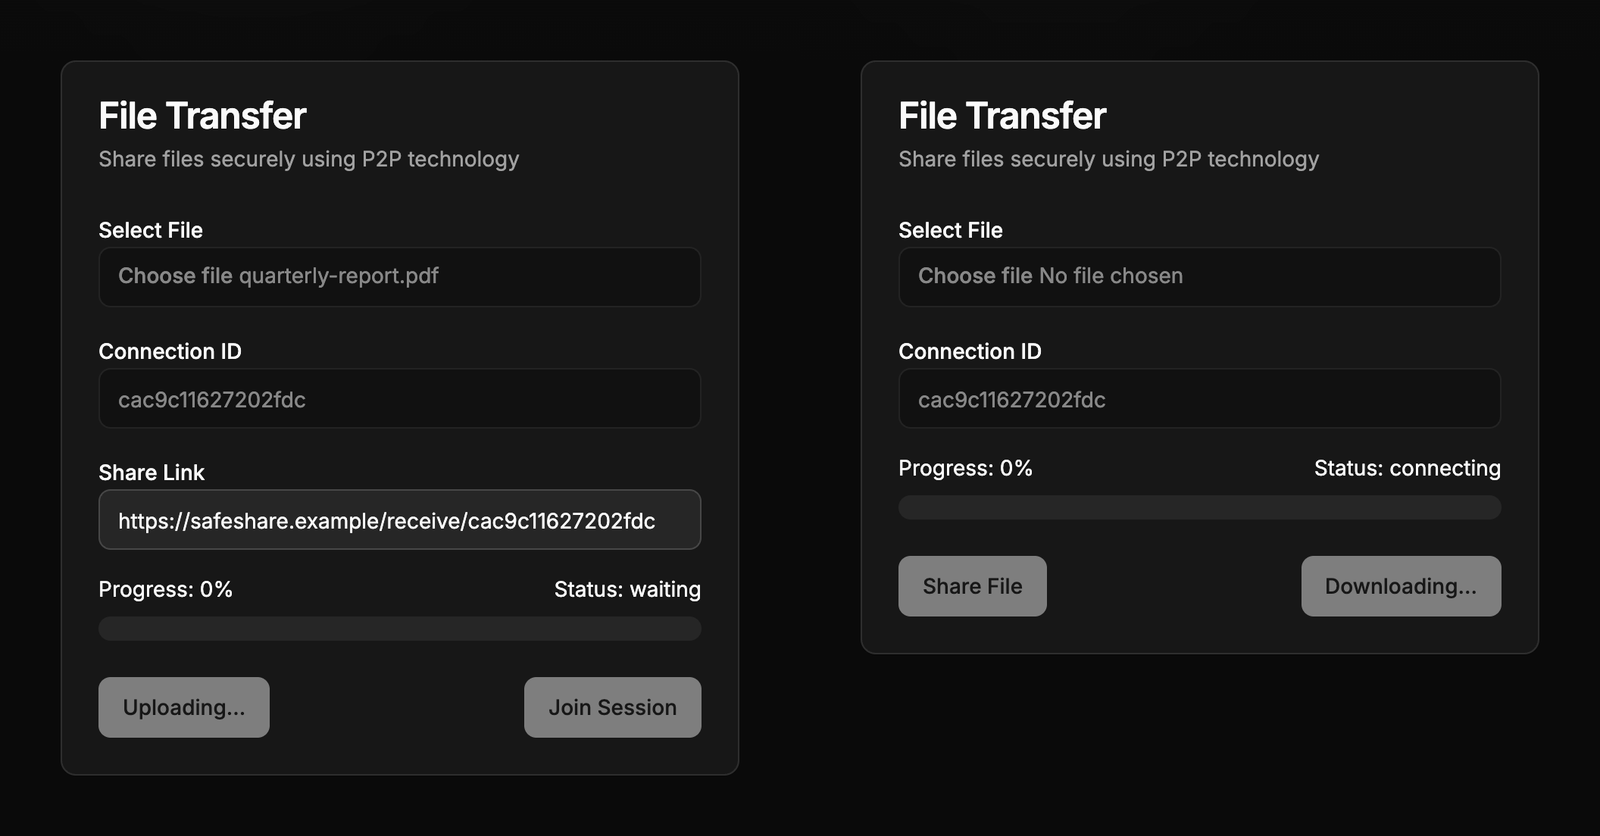
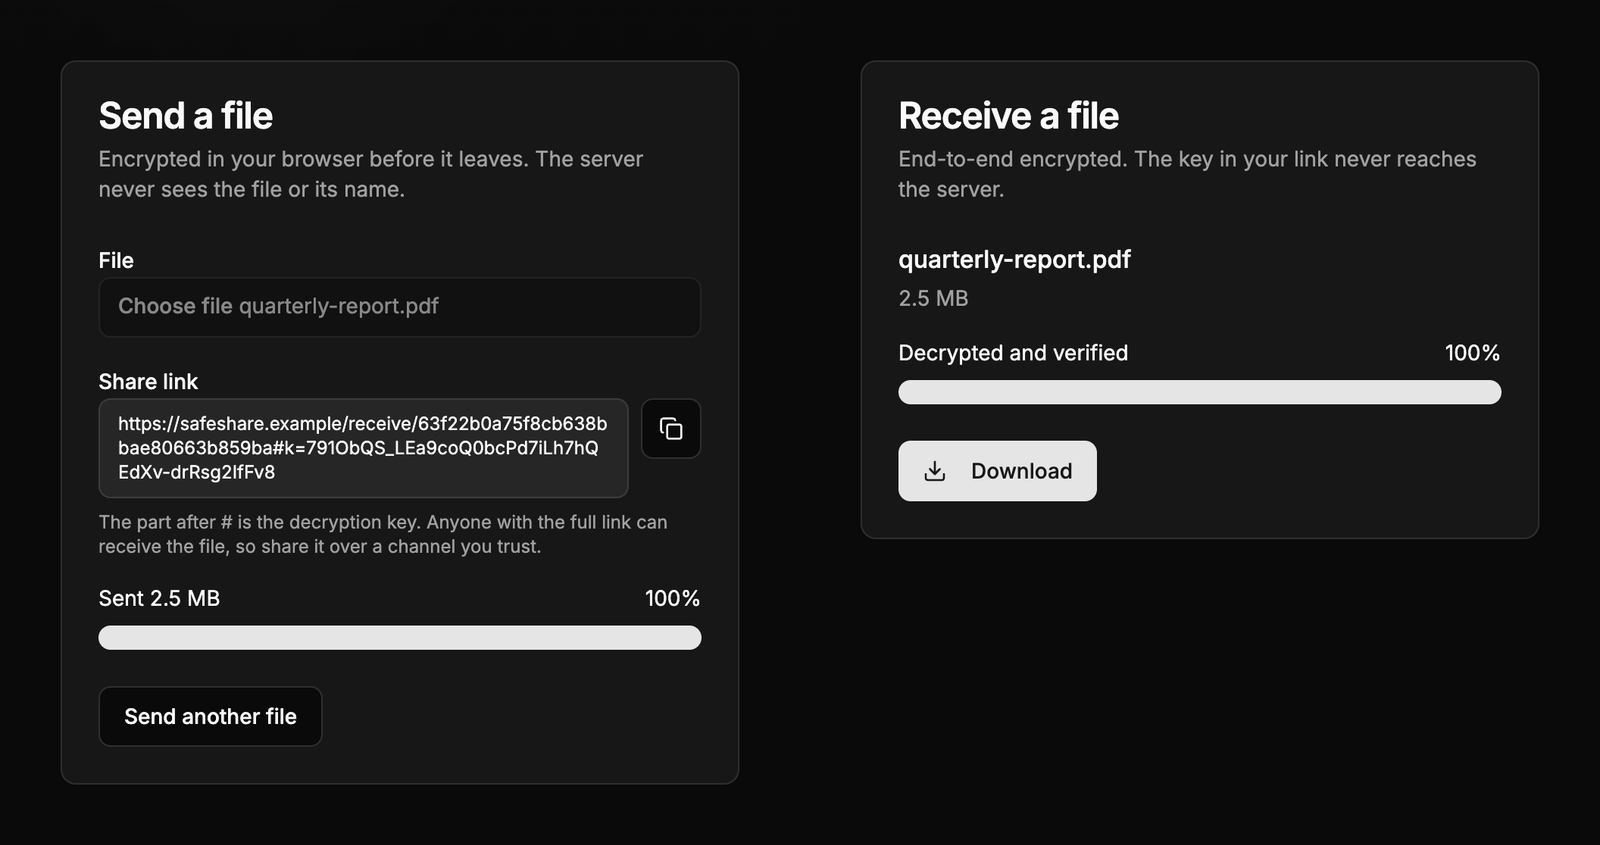
docs: describe end-to-end encryption in the README and show a completed transfer
State what is encrypted (contents and metadata, AES-GCM-256, key in the
URL fragment), how messages are bound and checked, what the signaling
server still sees, the trust assumptions, and that the desktop app is not
covered. Replace the screenshots with a completed transfer and trim the
status section to the gaps that remain.

diff --git a/README.md b/README.md
@@ -1,75 +1,78 @@
 # SafeShare
 
-Peer-to-peer file transfer over WebRTC. The sender's browser streams the file straight to the receiver's browser over a data channel, and a small signaling API only brokers the connection, so file contents never go through it. SafeShare is a prototype: see [Status](#status) for what works today.
+End-to-end encrypted file transfer between two browsers. The sender's browser encrypts the file with a key that exists only in the share link's URL fragment and streams it straight to the receiver over WebRTC. A small signaling API introduces the two browsers and never sees the key, the file or its name.
 
 <p align="center">
-  <img src="docs/images/web-share.png" width="720" alt="SafeShare web client with quarterly-report.pdf selected, a session created, and the connection ID and share link shown">
+  <img src="docs/images/web-share.png" width="720" alt="SafeShare web client after sending quarterly-report.pdf, showing the share link with the key after #k= and the transfer at 100 percent">
 </p>
 
 ## How it works
 
-There are two paths. The **signaling path** is JSON over HTTP between each client and the Fastify API, which keeps sessions in Redis. The **data path** is a direct WebRTC data channel between the two browsers.
+There are two paths. The **signaling path** is JSON over HTTP between each browser and the Fastify API, which keeps sessions in Redis. The **data path** is a direct WebRTC data channel between the two browsers, and everything on it is encrypted with the key from the link.
 
 ```mermaid
 sequenceDiagram
     participant S as Sender browser
     participant API as Signaling API (Fastify + Redis)
     participant R as Receiver browser
-    S->>API: POST /v1/share/initiate (name, size, type)
-    API-->>S: session ID (the connection ID), share link
-    S->>API: POST /v1/share/update-torrent (SDP offer)
-    Note over S,R: The sender passes the connection ID to the receiver
+    S->>S: Generate an AES-GCM-256 key
+    S->>API: POST /v1/share/initiate (no file details)
+    API-->>S: Random session ID
+    S->>API: POST /v1/share/signal (SDP offer)
+    Note over S,R: Sender shares /receive/<session ID>#k=<key>
+    R->>R: Read the key, remove it from the address bar
     R->>API: GET /v1/share/session/:id
-    API-->>R: SDP offer, file metadata
-    R->>API: POST /v1/share/update-torrent (SDP answer)
-    loop every 2 seconds
-        S->>API: GET /v1/share/session/:id
-    end
+    API-->>R: SDP offer
+    R->>API: POST /v1/share/signal (SDP answer)
+    S->>API: GET /v1/share/session/:id (polls)
     API-->>S: SDP answer
-    S->>R: WebRTC data channel over DTLS: metadata, 16 KB chunks, "complete"
+    S->>R: Data channel: encrypted metadata, chunks, end message
+    R->>R: Verify, then offer the download
 ```
 
-1. The sender creates a session with the file's name, size and MIME type. The API stores it in Redis for 24 hours and returns a 16-character session ID, shown in the UI as the connection ID.
-2. The sender opens an `RTCPeerConnection` with an ordered data channel and posts its SDP offer. The API keeps it in the session's `magnetUri` field (a leftover from the WebTorrent design), where the receiver's answer later replaces it.
-3. The receiver enters the connection ID, fetches the offer and posts an answer. The sender polls for the answer every 2 seconds.
-4. When the channel opens, the sender sends a JSON metadata message, the file as 16 KB `ArrayBuffer` chunks, then a `complete` message. The receiver rebuilds the file as a `Blob` and saves it.
-
-NAT traversal uses Google's public STUN servers. No TURN relay is configured, so peers that cannot reach each other directly (for example, two behind symmetric NATs) will not connect.
-
-**What the API sees:** the file name, size and MIME type; the SDP offer and answer, which carry each browser's DTLS certificate fingerprint and any ICE candidates (peer IP addresses); transfer status; and the client IP, a hash of which goes into the session ID. Sessions expire from Redis 24 hours after their last update.
-
-**What the API does not receive:** file contents, since neither client uploads file data to it, and the DTLS keys, which each browser generates and keeps. A malicious signaling server could still read a transfer by intercepting the connection (see [Security model](#security-model)).
-
-**Desktop client.** The Electron app uses the same API differently. Its main process seeds the file with WebTorrent and registers the real magnet URI with the session; the receiver's WebTorrent client downloads it into the Downloads folder. Peers are found through WebTorrent's default public trackers and the BitTorrent DHT. Because the web and desktop clients use different transports, they cannot send files to each other.
+1. The sender picks a file. Their browser asks the API for a session (it sends nothing about the file) and generates a fresh AES-GCM-256 key.
+2. The sender's browser waits for ICE gathering to finish, posts its SDP offer, and shows the link `/receive/<session ID>#k=<key>`.
+3. The receiver opens the link. Their browser reads the key from the fragment, removes it from the address bar, fetches the offer and posts an answer.
+4. When the data channel opens, the sender streams an encrypted metadata message (name, size, type), the file as encrypted chunks with backpressure, and an encrypted end message. Every message fits in 64 KiB, the SCTP message size all WebRTC peers accept.
+5. The receiver decrypts and checks every message, and shows the download button only after the end message verifies.
 
 <p align="center">
-  <img src="docs/images/transfer.png" width="720" alt="Sender card after creating a session next to the receiver card joining with the same connection ID">
+  <img src="docs/images/transfer.png" width="720" alt="Sender card after the transfer next to the receiver card showing quarterly-report.pdf decrypted and verified with a Download button">
   <br>
-  <sub>Sender (left) after creating a session; receiver (right) joining with the connection ID.</sub>
+  <sub>Sender after the transfer (left); receiver with the decrypted, verified file (right).</sub>
 </p>
 
 ## Security model
 
-- **Encryption is WebRTC's DTLS, nothing more.** Browsers always run data channels over DTLS, so file bytes are encrypted between the two peers with keys from a per-connection DTLS handshake. Neither client adds application-layer encryption: the web client sends raw file chunks, and the desktop client seeds the original file.
-- **The key exchange trusts the signaling server.** Each browser checks the DTLS handshake against the certificate fingerprint in the other side's SDP, and that SDP travels through the API. Session endpoints have no authentication, and the fingerprint is never checked out of band (no key or fingerprint travels in the link or URL fragment). A malicious or compromised signaling server, or anyone who knows a session ID, can replace the offer or answer and sit in the middle.
-- **Session IDs are not random.** Each one is the first 16 hex characters of a SHA-256 over the user agent, the current millisecond timestamp and a truncated hash of the client IP, not output from a CSPRNG.
-- **The server-side key pair is unused.** Creating a session also generates a libsodium `crypto_box` key pair: the public key is returned to the client and the private key is stored in Redis. Neither client uses these keys, and the chunk-encryption helpers in `apps/backend-fastify/src/utils/webrtc.ts` are never called. Because the server generates and holds the private key, wiring them in as written would still not be end-to-end encryption.
-- **Desktop transfers are BitTorrent.** WebTorrent's TCP and uTP connections use BitTorrent protocol encryption (RC4 obfuscation that falls back to plaintext, WebTorrent's default), and its WebRTC peers use DTLS. Torrents are announced to public trackers and the DHT, so anyone who learns the magnet URI, the signaling server included, can download the file while the sender is seeding.
+**What is end-to-end encrypted.** The file contents and its metadata (name, size and MIME type), using AES-GCM with a 256-bit key through WebCrypto ([`apps/web/lib/transfer-crypto.ts`](apps/web/lib/transfer-crypto.ts)).
 
-In short, web transfers are encrypted in transit between the two browsers and the signaling API never receives file contents, but confidentiality depends on trusting the signaling server. Desktop transfers may fall back to plaintext. The web app's "How It Works" page describes in-browser AES-GCM 256-bit encryption; that is not implemented.
+- **Key.** The sender's browser generates a new key for every transfer and puts it, base64url-encoded, in the link's fragment (`#k=...`). Browsers never send the fragment to a server, and no code path posts or logs it. The receiver imports the key as decrypt-only and non-extractable, then removes the fragment from the address bar and the Next.js router state.
+- **Messages.** Each data-channel message is `version || type || IV || ciphertext+tag`. The 96-bit IV is a random 4-byte prefix per sender plus a 64-bit sequence number, so it never repeats under a key. The additional authenticated data binds the protocol version, message type, sequence number and session ID, so an altered, reordered, duplicated, dropped or spliced message fails to decrypt.
+- **Completeness.** The last message carries the chunk count and byte length, which must match what was received and the size in the metadata. Any failure aborts the transfer and discards what arrived; a partial file is never offered.
+- WebRTC's DTLS also encrypts the transport. Because the content is encrypted with a key the server never has, a signaling server that tampers with the SDP can disrupt a transfer but cannot read it.
+
+**What the signaling server still sees.** A random 128-bit session ID; the SDP offer and answer, including ICE candidates (IP addresses) and DTLS fingerprints; client IP addresses and request timing; and, like anyone on the network path, the approximate file size from the traffic volume. Sessions expire after 24 hours.
+
+**Trust assumptions.**
+
+- Anyone who holds the full link can receive the file, so share it over a channel you trust. The server accepts one answer per session, so the first receiver to connect wins and a link works once.
+- There is no authentication beyond possession of the link, so the receiver cannot prove who sent the file.
+- The JavaScript is served by whoever hosts the web app, and code from a malicious host could leak the key. This applies to any browser-based encryption.
+
+**Not covered.** The desktop app transfers files with WebTorrent and has no application-layer encryption: BitTorrent peers use RC4 obfuscation that can fall back to plaintext, and torrents are announced to public trackers and the DHT, so anyone who learns the magnet URI (the signaling server included) can download the file while it is seeded. The Go API is not used by either client.
 
 ## Apps
 
-| Path                                           | What                                                                                                      | Stack                                    |
-| ---------------------------------------------- | --------------------------------------------------------------------------------------------------------- | ---------------------------------------- |
-| [`apps/web`](apps/web)                         | Web client: browser-to-browser transfer over a WebRTC data channel                                        | Next.js 16, React 19, shadcn/ui          |
-| [`apps/electron`](apps/electron)               | Desktop client: WebTorrent transfers from the Electron main process                                       | Electron 45, React, Vite, WebTorrent     |
-| [`apps/backend-fastify`](apps/backend-fastify) | Signaling API used by both clients                                                                        | Fastify, Redis                           |
-| [`apps/backend-go`](apps/backend-go)           | Separate API with device auth, WebRTC rooms and server-relayed chunk uploads; not yet used by the clients | Go, Gin, sqlc, Postgres, Redis, RabbitMQ |
+| Path                                           | What                                                                                                      | Stack                                      |
+| ---------------------------------------------- | --------------------------------------------------------------------------------------------------------- | ------------------------------------------ |
+| [`apps/web`](apps/web)                         | Web client: end-to-end encrypted browser-to-browser transfers                                             | Next.js 16, React 19, shadcn/ui, WebCrypto |
+| [`apps/electron`](apps/electron)               | Desktop client: WebTorrent transfers from the Electron main process (not end-to-end encrypted)            | Electron 45, React, Vite, WebTorrent       |
+| [`apps/backend-fastify`](apps/backend-fastify) | Signaling API used by both clients                                                                        | Fastify, Redis                             |
+| [`apps/backend-go`](apps/backend-go)           | Separate API with device auth, WebRTC rooms and server-relayed chunk uploads; not yet used by the clients | Go, Gin, sqlc, Postgres, Redis, RabbitMQ   |
 
 ## Downloads
 
-Desktop builds from the [latest release](https://github.com/piyush-gambhir/safeshare/releases/latest) (v0.1.1). They are unsigned and not notarized.
+Desktop builds from the [latest release](https://github.com/piyush-gambhir/safeshare/releases/latest) (v0.1.1). They are unsigned and not notarized, and they predate the web client's encryption, which they do not use.
 
 | Platform    | Download                                                                                                                            |
 | ----------- | ----------------------------------------------------------------------------------------------------------------------------------- |
@@ -97,28 +100,29 @@ pnpm dev:web
 pnpm dev:electron
 ```
 
-The backend's CORS policy only allows `FRONTEND_URL`. For the desktop client, start it with `FRONTEND_URL='*' pnpm dev:backend-fastify` instead; share links then lose their host, but the connection ID still works.
+To try a transfer, open http://localhost:3000, choose a file, click **Create share link**, and open the link in another browser window. WebCrypto only works in a secure context, so serve the web app over HTTPS anywhere other than `localhost`.
 
-To try the web flow, open http://localhost:3000 in two windows. In the first, choose a file and click **Share File**; in the second, paste the connection ID and click **Join Session**.
+The backend's CORS policy only allows `FRONTEND_URL`. For the desktop client, start it with `FRONTEND_URL='*' pnpm dev:backend-fastify` instead.
 
-| Variable                                     | App             | Default                    | Purpose                                       |
-| -------------------------------------------- | --------------- | -------------------------- | --------------------------------------------- |
-| `PORT`                                       | backend-fastify | `8000`                     | API port                                      |
-| `REDIS_HOST`, `REDIS_PORT`, `REDIS_PASSWORD` | backend-fastify | `localhost`, `6379`, empty | Session store                                 |
-| `FRONTEND_URL`                               | backend-fastify | `http://localhost:3000`    | CORS origin and base URL of share links       |
-| `NEXT_PUBLIC_API_URL`                        | web             | `http://localhost:8000/v1` | Signaling API base URL, inlined at build time |
+| Variable                                     | App             | Default                    | Purpose                                         |
+| -------------------------------------------- | --------------- | -------------------------- | ----------------------------------------------- |
+| `PORT`                                       | backend-fastify | `8000`                     | API port                                        |
+| `REDIS_HOST`, `REDIS_PORT`, `REDIS_PASSWORD` | backend-fastify | `localhost`, `6379`, empty | Session store                                   |
+| `FRONTEND_URL`                               | backend-fastify | `http://localhost:3000`    | CORS origin (and the desktop app's share links) |
+| `NEXT_PUBLIC_API_URL`                        | web             | `http://localhost:8000/v1` | Signaling API base URL, inlined at build time   |
 
 The Go API runs with `make docker-up` in `apps/backend-go` (Postgres, Redis, RabbitMQ, migrations, and the API on port 8080 with Swagger at `/swagger/index.html`).
 
-CI ([`ci.yml`](.github/workflows/ci.yml)) lints and typechecks every Node app, runs the Electron transfer tests (a loopback WebTorrent seed and download with a byte comparison), and builds the web app, the Electron bundle and the Fastify backend.
+`pnpm --filter ./apps/web test` runs the encryption unit tests. CI ([`ci.yml`](.github/workflows/ci.yml)) also lints and typechecks every Node app, runs the Electron transfer tests, and builds the web app, the Electron bundle and the Fastify backend.
 
 ## Status
 
 This is a prototype. Known gaps:
 
-- **Web transfers stall at "connecting".** The offer and answer are posted before ICE gathering finishes, and candidates gathered later are never sent, so the peers have no addresses to try. The sender also marks the session connected as soon as the answer arrives, before the data channel opens (`apps/web/components/file-transfer.tsx`).
-- **The share link crashes.** `/receive/<id>` is left over from the WebTorrent design: it throws in the browser on load and expects a magnet URI rather than a WebRTC session. Receivers use the connection ID on the home page instead.
-- **The desktop client's API URL is fixed** to `http://localhost:8000/v1`, it needs the wildcard CORS setting above, and its progress bar does not update.
+- **No relay.** Only STUN is configured, so two devices that cannot reach each other directly (for example, both behind symmetric NATs) will not connect.
+- **Memory-bound receiving.** The receiver holds the whole file in memory until it is saved.
+- **One shot per link.** Each link serves one receiver, and an interrupted transfer starts over with a new link.
+- **Desktop client.** Its API URL is fixed to `http://localhost:8000/v1`, it needs the wildcard CORS setting above, its progress bar does not update, and it cannot exchange files with the web client.
 
 ## Docs
 
